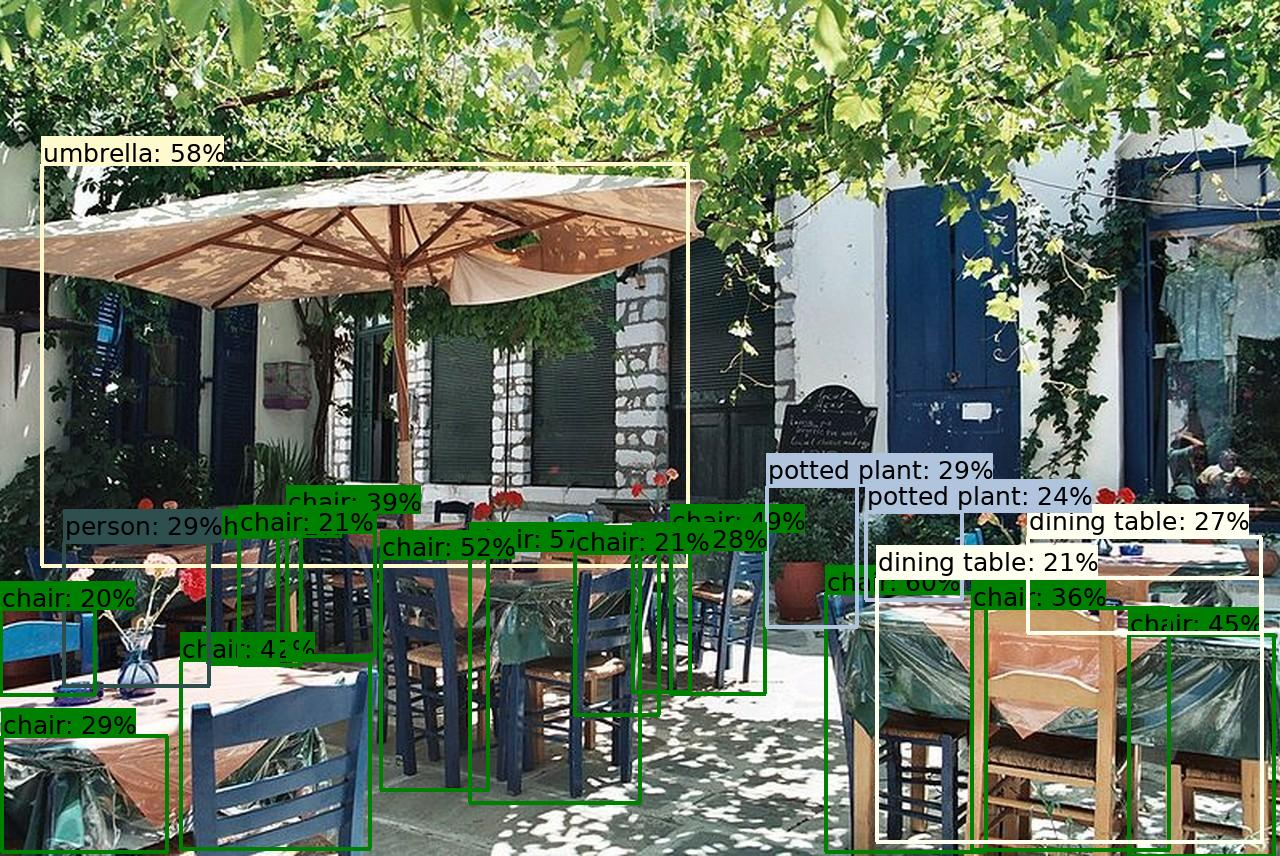
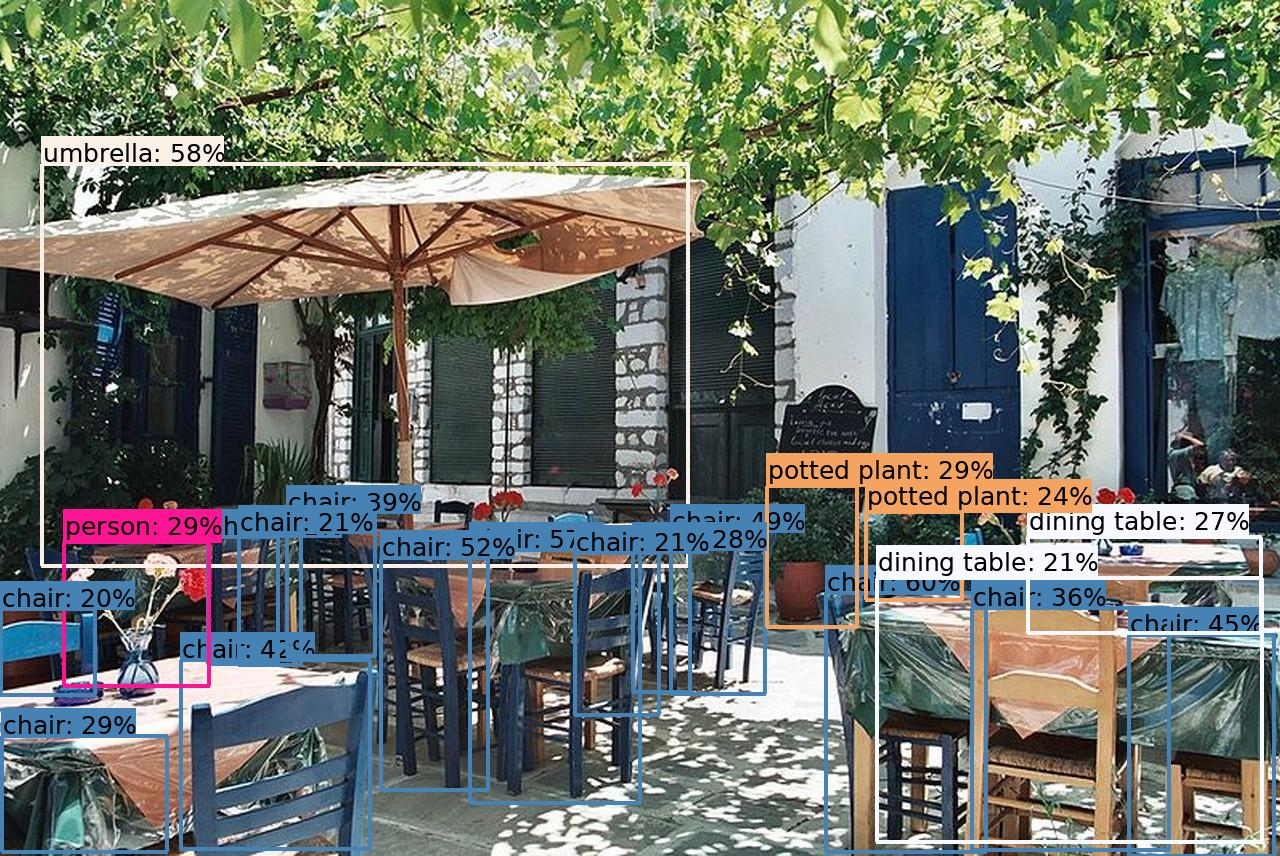
[NEW] decopled detector and drawBoxes

Changed region(s): [[0.0, 0.5164, 1.0, 1.0], [0.0312, 0.1519, 0.1875, 0.2126]]

diff --git a/core/objectDetector.py b/core/objectDetector.py
@@ -5,30 +5,31 @@ import tensorflow_hub as hub
 # for calulating time per processing
 import time
 
-#for setting enviornment variables
+# for setting enviornment variables
 import os
-
-from .imageDrawer import draw_boxes
-from .imageUtils import save_img
 
 MODEL_HANDLE = "https://tfhub.dev/tensorflow/efficientdet/lite0/detection/1"
 
 # NOTE: uncomment this line to make the GPU invisible to tensorflow
 os.environ['CUDA_VISIBLE_DEVICES'] = '-1'
 
+
 class Detector:
     """Class wrapper for running object detector model inferences"""
+
     def __init__(self):
         """loads the detector model"""
         self.detector = hub.load(MODEL_HANDLE)
 
     def run_detector(self, img):
-        """run detector algorithm and save the image"""
-        #TODO Return Image
-        #TODO decouple prediction and bounding box drawing
+        """
+        Run detector algorithm and returns a dictionary with keys 
+        "detection_boxes", "detection_classes" and "detection_scores" 
+        """
 
-        #convert the image 
-        converted_img = tf.image.convert_image_dtype(img, tf.uint8)[tf.newaxis, ...]
+        # convert the image
+        converted_img = tf.image.convert_image_dtype(img, tf.uint8)[
+            tf.newaxis, ...]
 
         start_time = time.time()
         boxes, scores, classes, num_detections = self.detector(converted_img)
@@ -43,18 +44,11 @@ class Detector:
         print(f"Found {int(num_detections)} objects.")
         print(f"Inference time: {end_time-start_time} s")
 
-        image_with_boxes = draw_boxes(
-            img.numpy(),
-            result["detection_boxes"],
-            result["detection_classes"],
-            result["detection_scores"]
-        )
-
-        save_img(image_with_boxes)
+        return result
 
 
 if __name__ == "__main__":
-    # # Print Tensorflow version
+    #Print Tensorflow version
     print(tf.__version__)
 
     if tf.test.gpu_device_name():

diff --git a/main.py b/main.py
@@ -1,4 +1,5 @@
-from core.imageUtils import download_and_resize_image, load_img
+from core.imageDrawer import draw_boxes
+from core.imageUtils import download_and_resize_image, load_img, save_img
 from core.objectDetector import Detector
 
 # By Heiko Gorski, Source: https://commons.wikimedia.org/wiki/File:Naxos_Taverna.jpg
@@ -9,4 +10,13 @@ if __name__ == '__main__':
     img = load_img(downloaded_image_path)
 
     detector = Detector()
-    detector.run_detector(img)
+    result = detector.run_detector(img)
+
+    image_with_boxes = draw_boxes(
+            img.numpy(),
+            result["detection_boxes"],
+            result["detection_classes"],
+            result["detection_scores"]
+        )
+
+    save_img(image_with_boxes)
